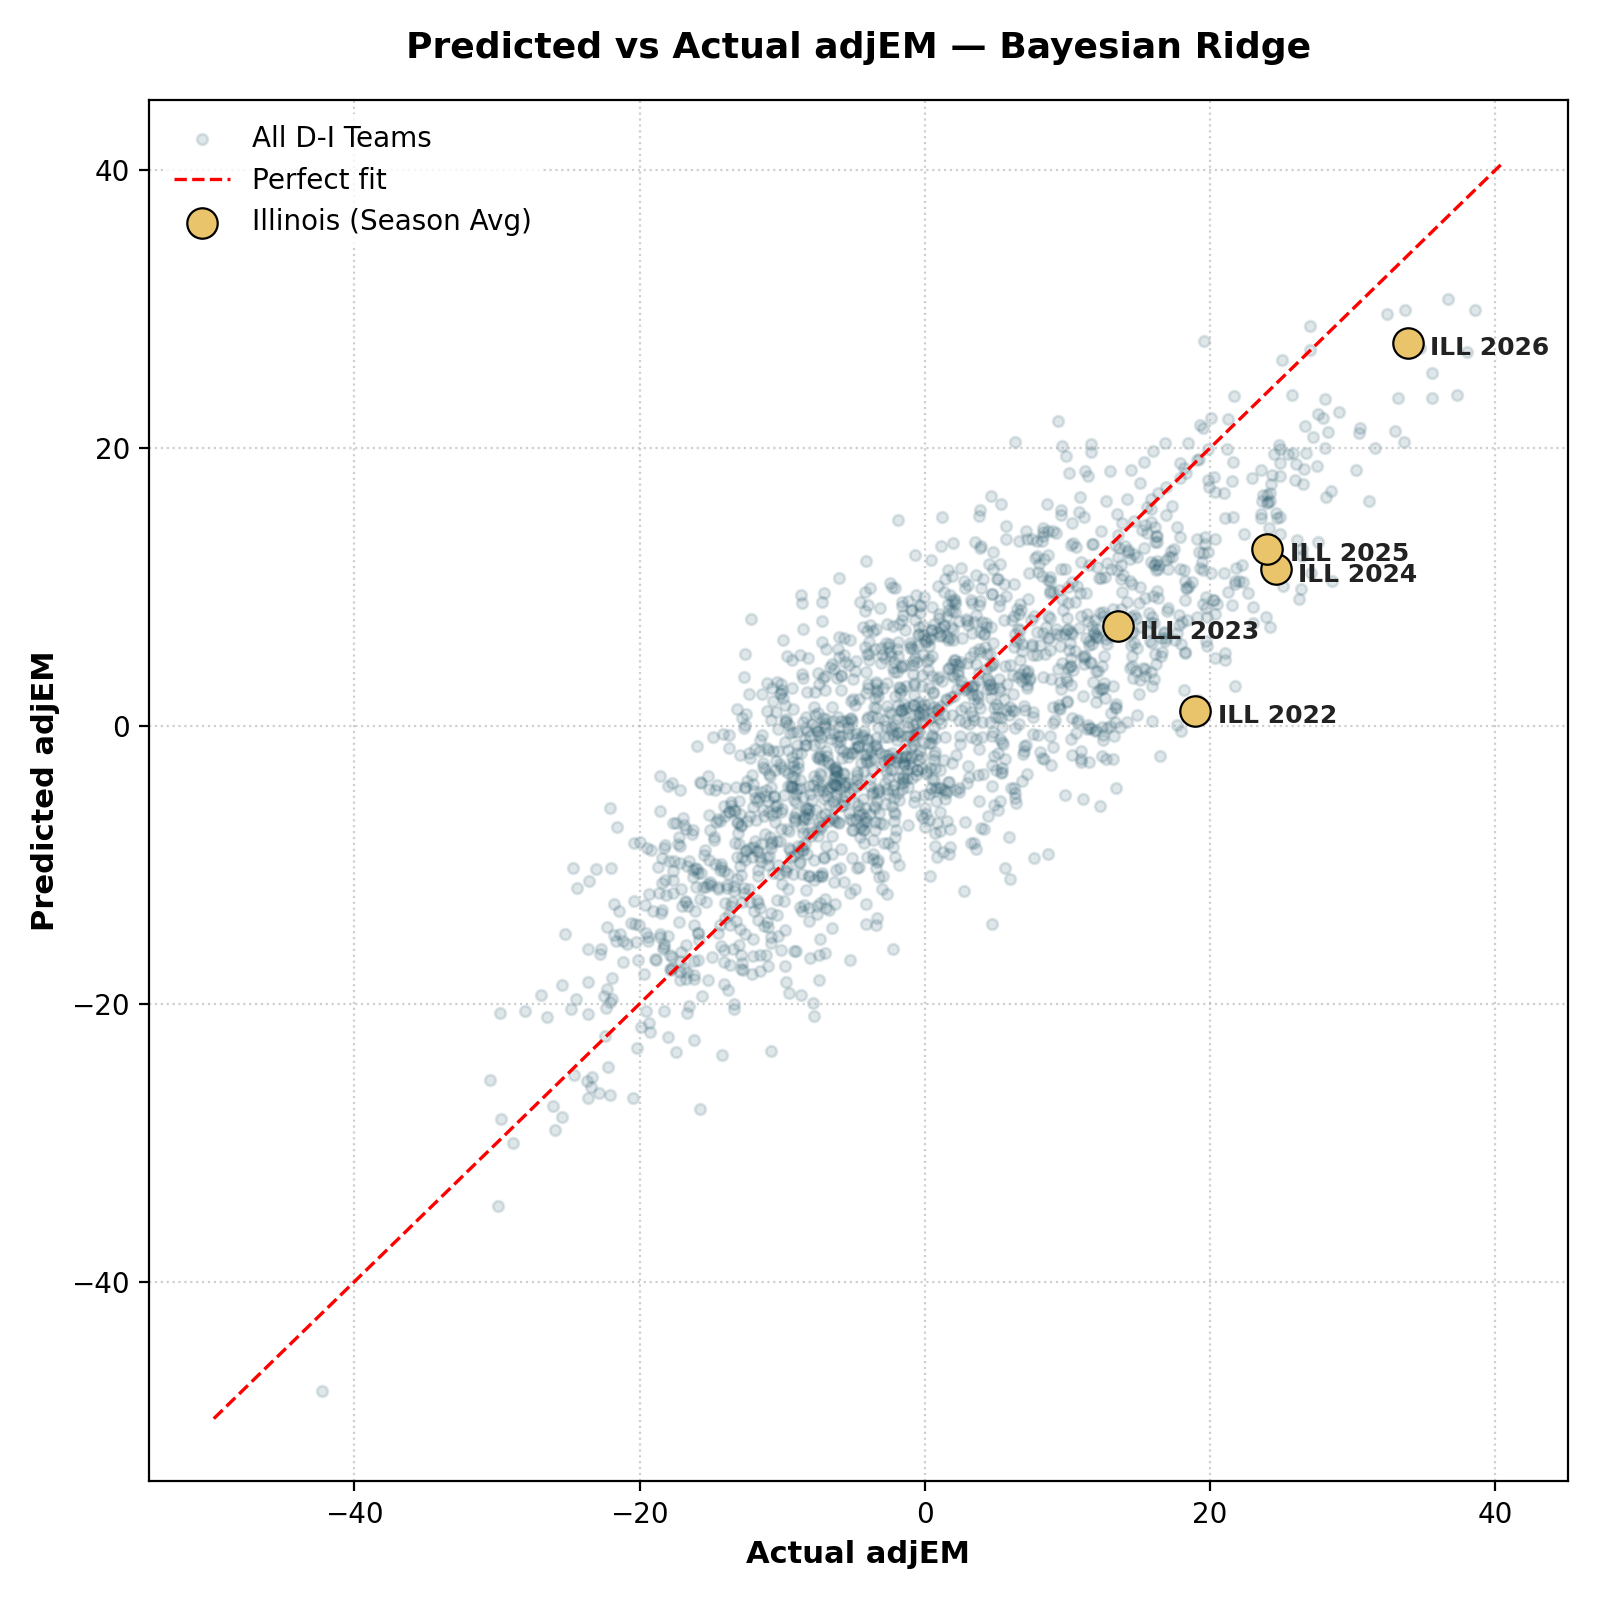
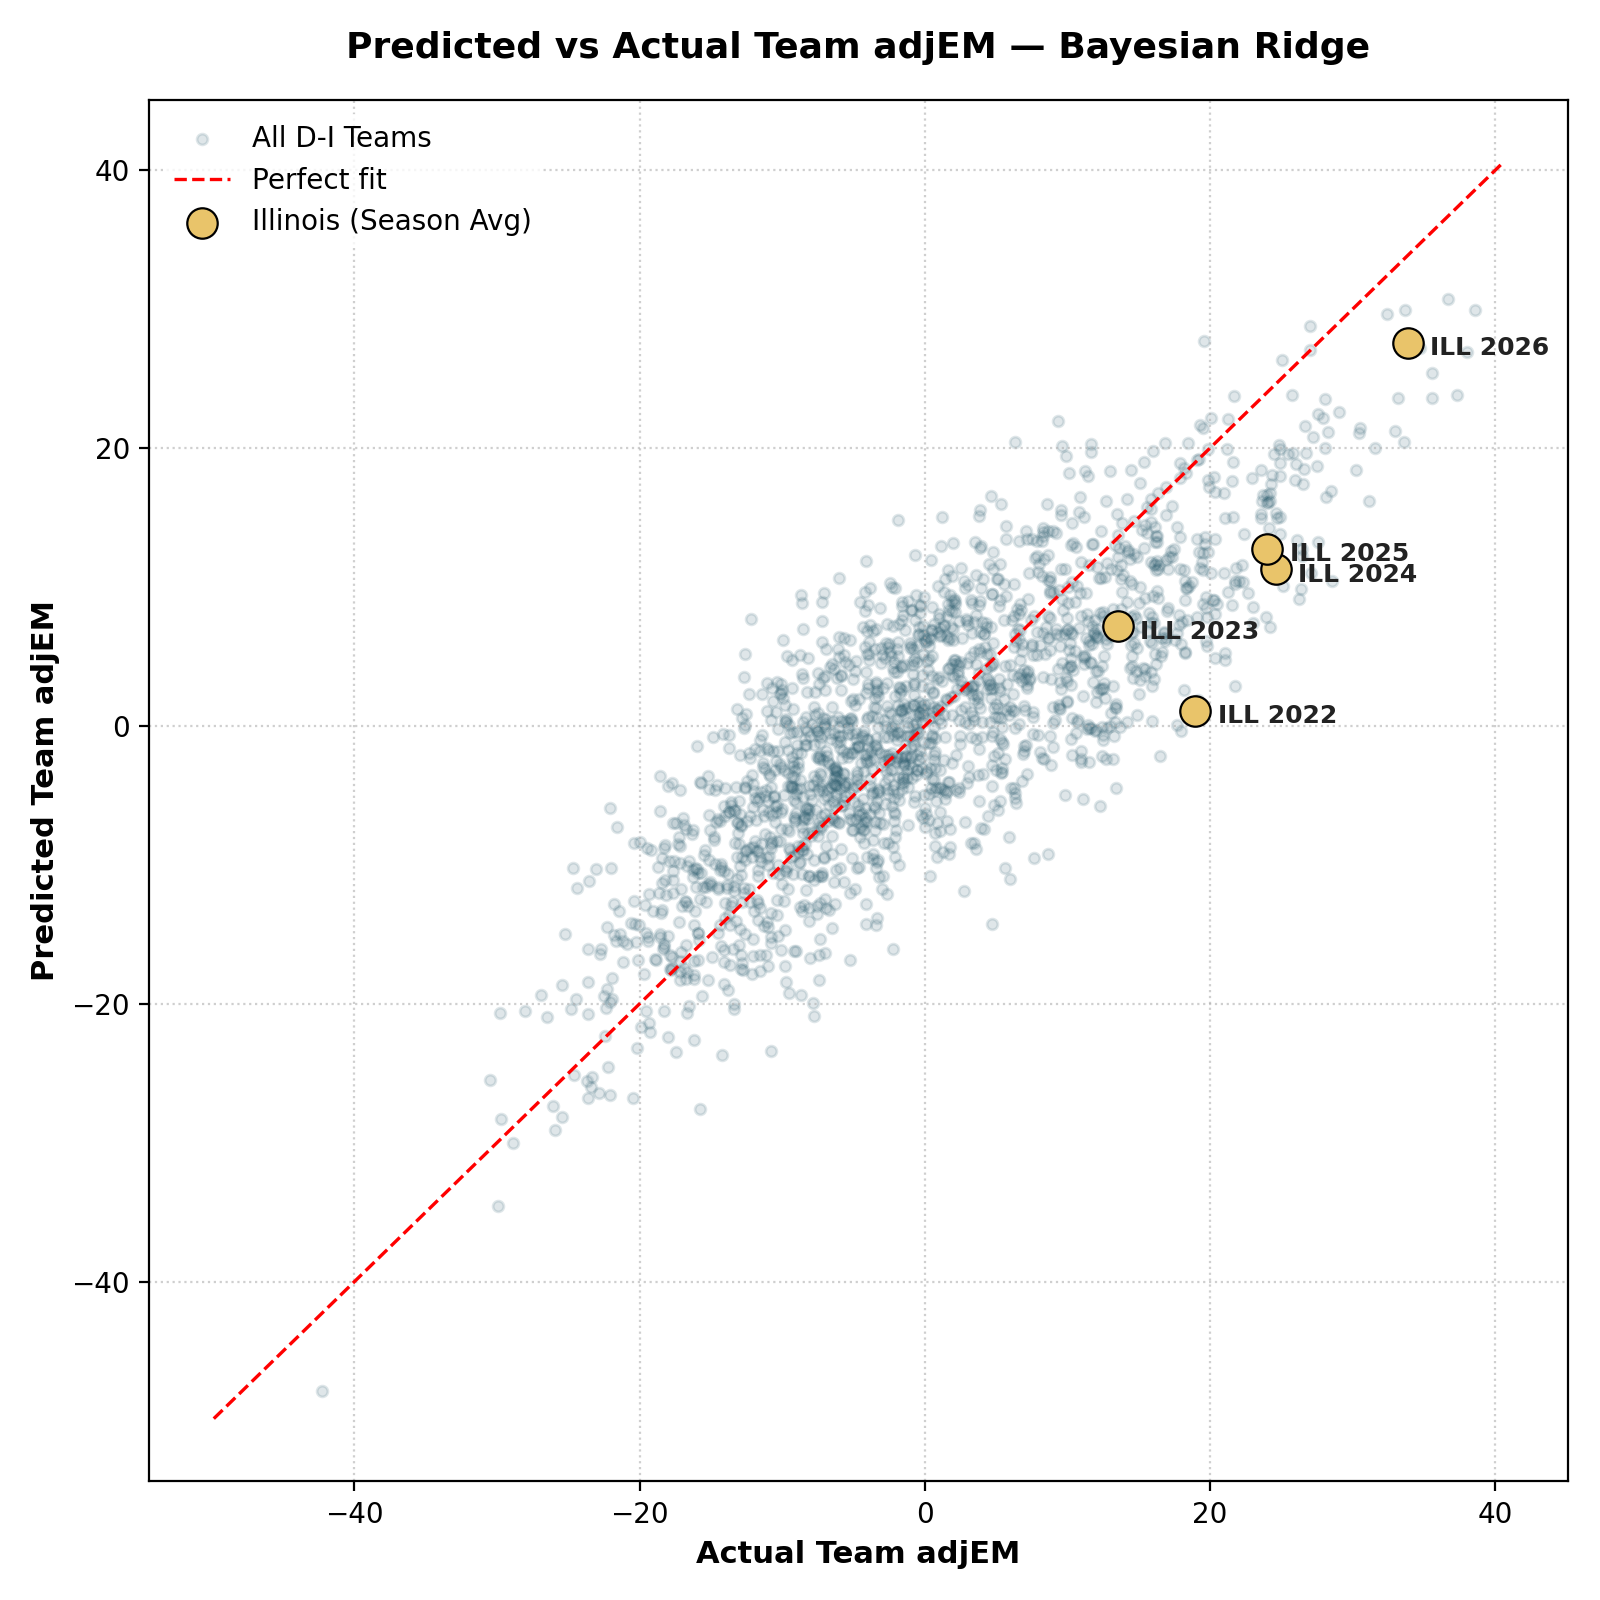
adding writeup. modifying a few cosmetic things to the application

Changed region(s): [[0.2188, 0.0, 0.8438, 0.0625], [0.4375, 0.9375, 0.625, 1.0], [0.0, 0.375, 0.0312, 0.625]]

diff --git a/app/streamlit_app.py b/app/streamlit_app.py
@@ -401,7 +401,7 @@ with st.sidebar:
 
     st.markdown("---")
     st.markdown(
-        "<div style='font-size:0.7rem;color:rgba(255,255,255,0.4)'>"
+        "<div style='font-size:0.7rem;color:rgba(255,255,255,1)'>"
         f"Roster only contains players that played at least {MIN_PCT_THRESHOLD}% of the team's minutes.<br>"
         "Model trained on 2022–26 D1 team-seasons.<br>"
         "Predicts adjEM from minute-weighted player attributes + role synergy features.<br>"
@@ -457,14 +457,14 @@ with tab1:
         st.markdown(f"""
         <div class="metric-card">
             <div class="label">Best Lineup adjEM</div>
-            <div class="value">+{best['pred_adjEM']:.1f}</div>
+            <div class="value">{best['pred_adjEM']:.1f}</div>
             <div class="sub">Projected efficiency margin</div>
         </div>""", unsafe_allow_html=True)
     with c2:
         st.markdown(f"""
         <div class="metric-card">
             <div class="label">Average Lineup adjEM</div>
-            <div class="value">+{avg:.1f}</div>
+            <div class="value">{avg:.1f}</div>
             <div class="sub">Projected efficiency margin</div>
         </div>""", unsafe_allow_html=True)
     with c3:
@@ -598,11 +598,11 @@ with tab2:
                 </div>
                 <div class="sub">95% CI: [{lower:.1f}, {upper:.1f}]</div>
                 <div class="sub" style="margin-top:0.5rem">
-                    σ = {std:.2f} &nbsp;·&nbsp; Uncertainty: {"Low" if std < 1.5 else "Medium" if std < 2.5 else "High"}
+                    σ = {std:.2f} 
                 </div>
             </div>""", unsafe_allow_html=True)
 
-            # Rank among all 56
+            # Rank among all
             rank_pos = (rankings["pred_adjEM"] > mean).sum() + 1
             st.markdown(f"""
             <div class="metric-card" style="margin-top:1rem">
@@ -639,7 +639,7 @@ with tab2:
                 fc_players = lineup_df[lineup_df["role"].isin(FRONTCOURT_ROLES)]
                 if len(fc_players) > 0:
                     avg_fc_3p = fc_players["TP_per"].mean()
-                    if avg_fc_3p < 25:
+                    if avg_fc_3p < 30:
                         st.warning(
                             f"⚠️ **Limited spacing:** Frontcourt avg 3PT% is {avg_fc_3p:.0f}%. "
                             "Consider adding a stretch big to open driving lanes."
@@ -849,6 +849,7 @@ with tab4:
                                              options=portal_options)
         portal_idx = portal_options.index(selected_portal_label)
         portal_player = portal_pool.iloc[[portal_idx]].copy()
+        portal_player['TP_per'] = portal_player['TP_per']*100
 
         st.markdown("<br>", unsafe_allow_html=True)
 
@@ -912,7 +913,7 @@ with tab4:
             # Spacing value — does frontcourt need shooting?
             portal_tpar = portal_player["TPAR"].values[0] if "TPAR" in portal_player else \
                           portal_player["TPA"].values[0] / max(portal_player["TPA"].values[0] + portal_player["twoPA"].values[0], 1)
-            spacing_value = portal_role in FRONTCOURT_ROLES and portal_tpar > 0.35
+            spacing_value = portal_role in FRONTCOURT_ROLES and portal_tpar > 0.30
             st.markdown(f"""
             <div class="metric-card">
                 <div class="label">Spacing Value</div>